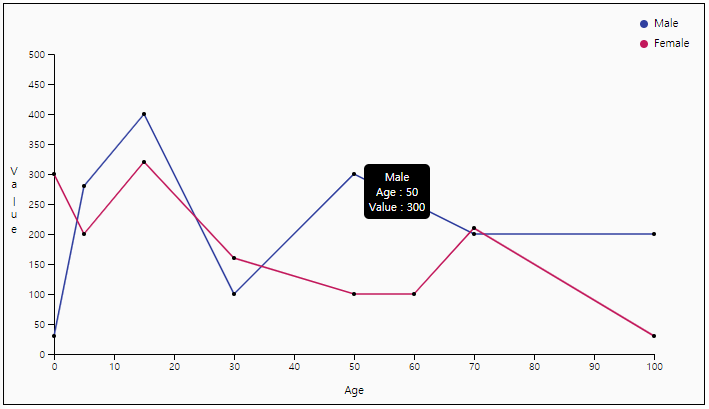
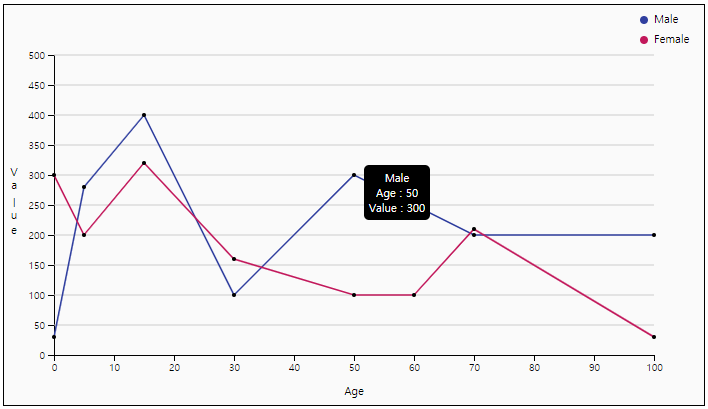
Added grid to line chart

diff --git a/src/line_chart.html b/src/line_chart.html
@@ -142,18 +142,31 @@
             .attr('y', canvasHeight/2)
             .text('Value');
 
+        // grid
+        for(let i = 0; i < 10; i++) {
+
+            svg
+                .append('line')
+                .style('stroke', '#CCCCCC')
+                .attr('x1', canvasPadding)
+                .attr('y1', canvasPadding + graphHeight/10*i)
+                .attr('x2', canvasPadding + graphWidth)
+                .attr('y2', canvasPadding + graphHeight/10*i);
+
+        }
+
         // legend
         svg
             .append('circle')
             .attr('cx', canvasWidth - 60)
-            .attr('cy', 20)
+            .attr('cy', 15)
             .attr('r', 4)
             .style('fill', '#303F9F')
 
         svg
             .append('text')
             .attr('x', canvasWidth - 50)
-            .attr('y', 20)
+            .attr('y', 15)
             .style('font-size', '11px')
             .attr('alignment-baseline', 'middle')
             .text('Male');
@@ -161,14 +174,14 @@
         svg
             .append('circle')
             .attr('cx', canvasWidth - 60)
-            .attr('cy', 40)
+            .attr('cy', 35)
             .attr('r', 4)
             .style('fill', '#C2185B')
 
         svg
             .append('text')
             .attr('x', canvasWidth - 50)
-            .attr('y', 40)
+            .attr('y', 35)
             .style('font-size', '11px')
             .attr('alignment-baseline', 'middle')
             .text('Female');
